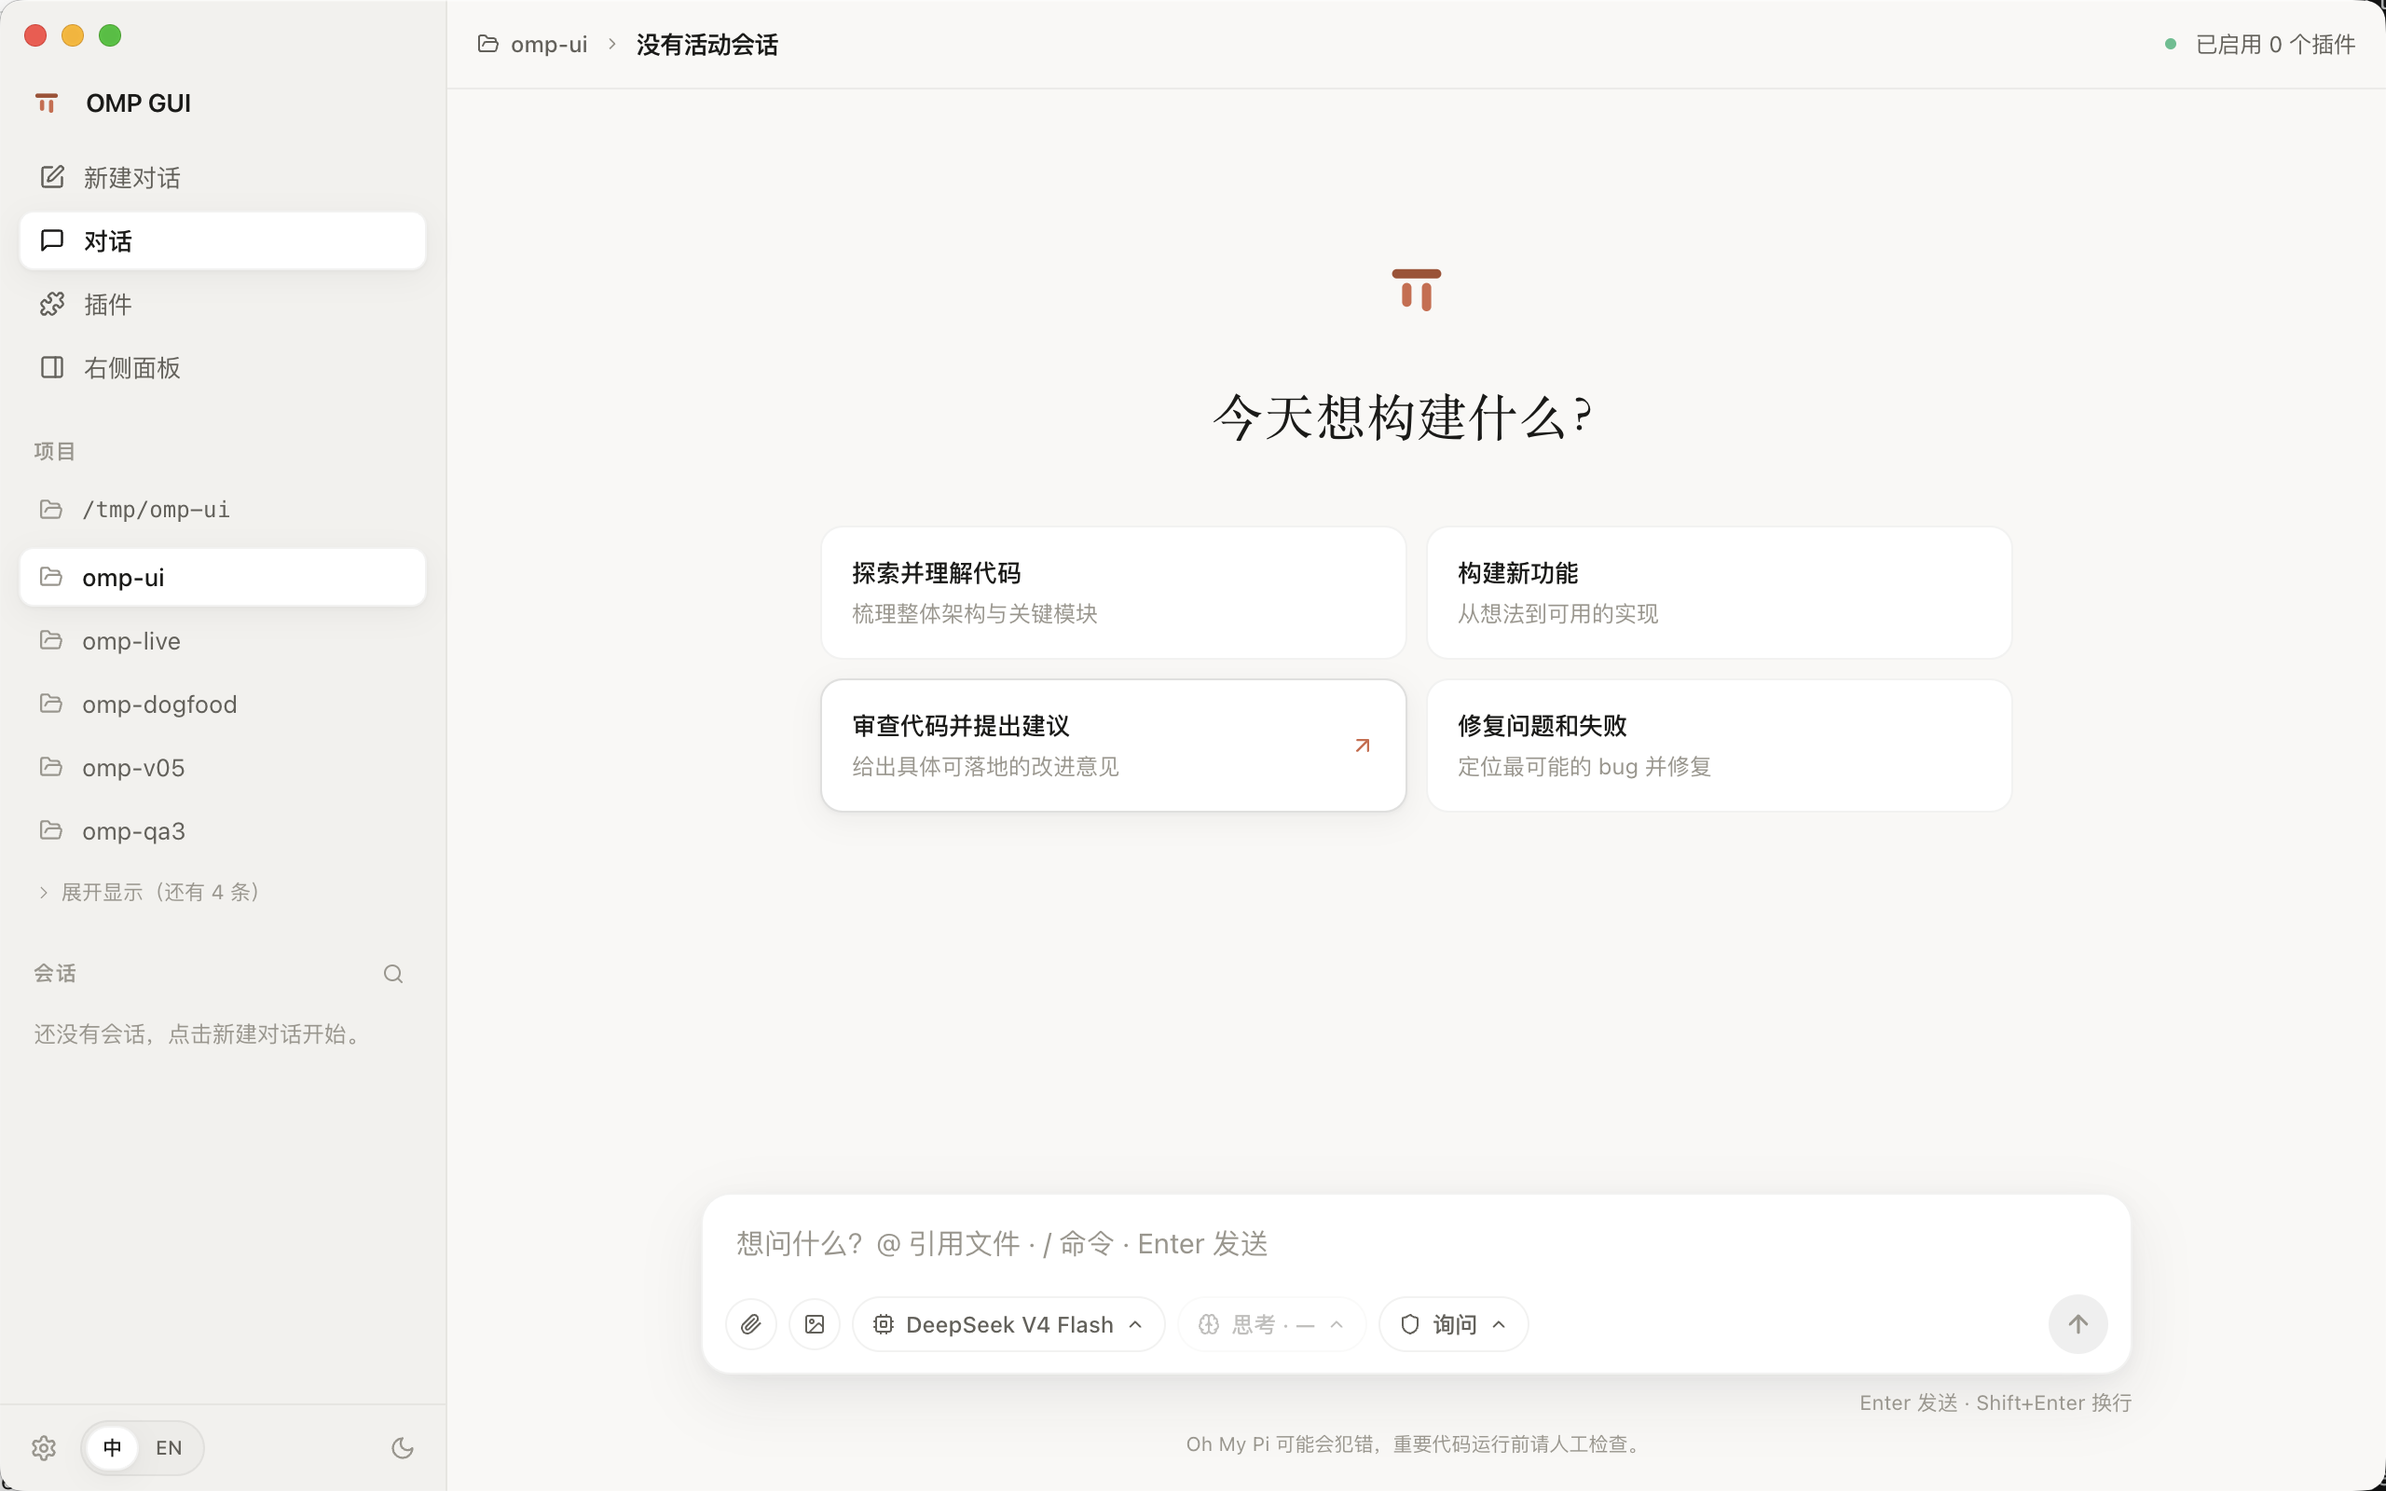
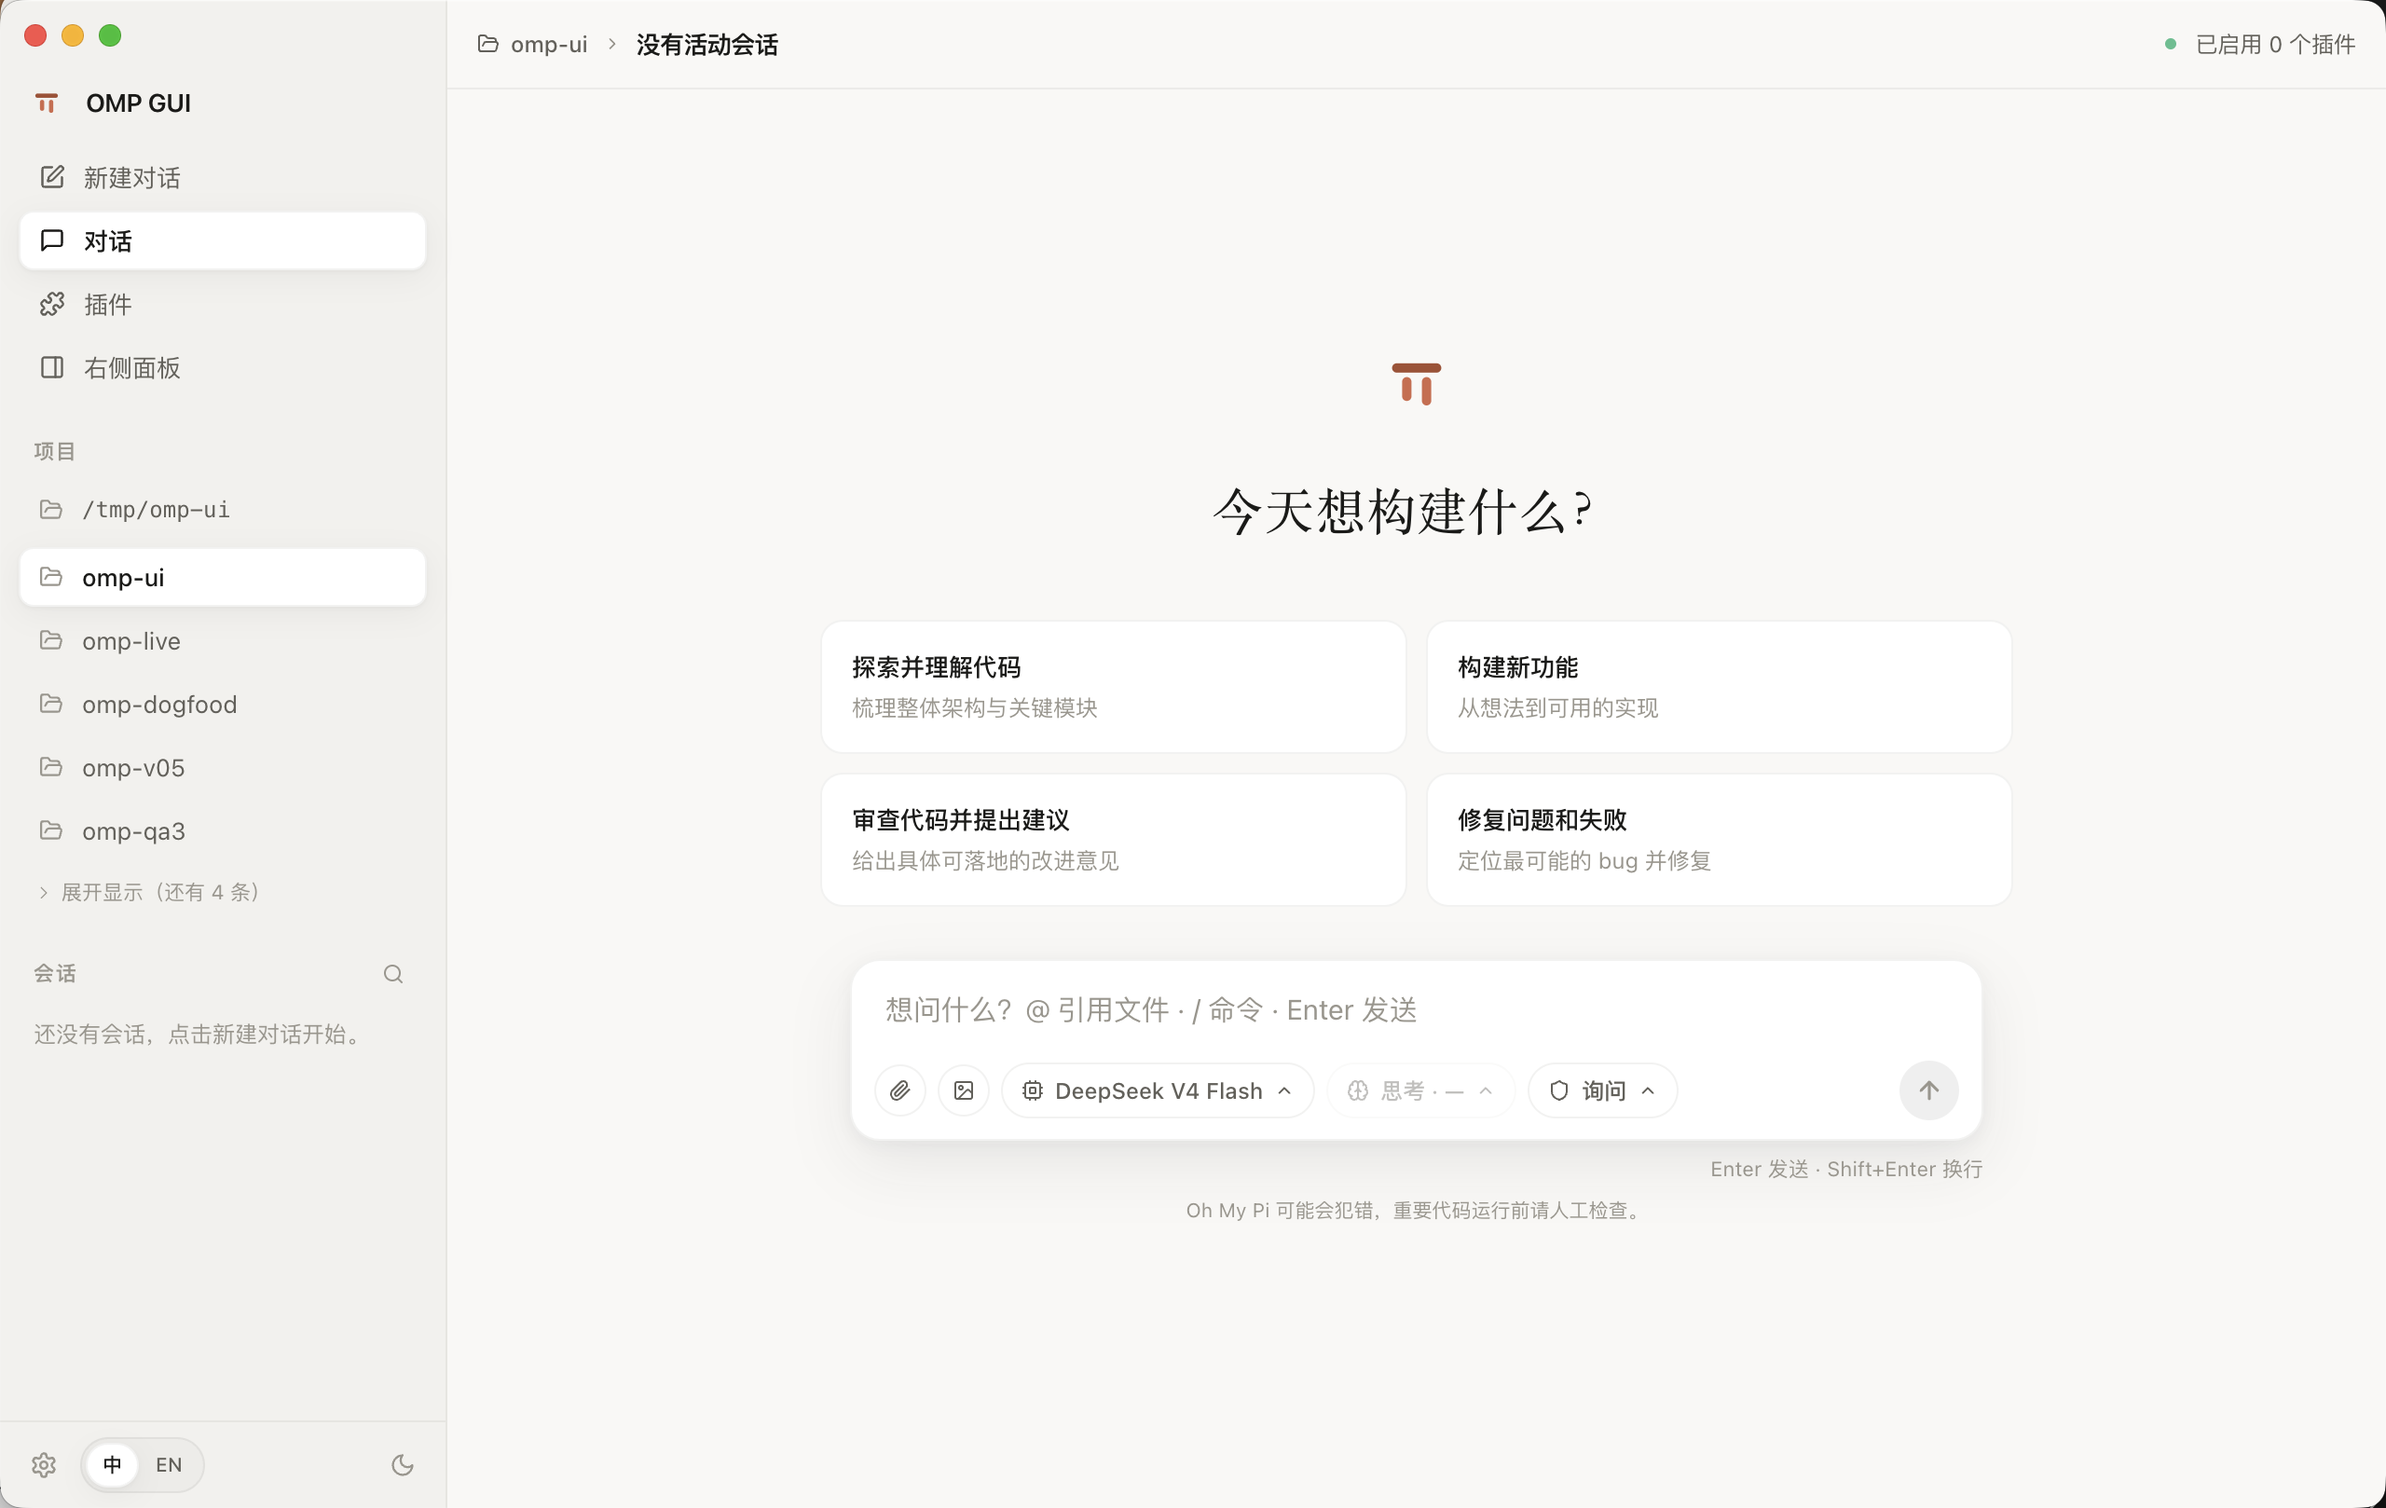
feat: fuse hero and composer into one centered block
- Suggestion cards now prefill the composer with a completable starter
  (我要做一个新功能：…) instead of firing a canned prompt — no session
  is created until you hit send
- Hero (mark, serif title, cards, composer) renders as a single
  vertically centered group; the empty band between cards and composer
  is gone

diff --git a/src/renderer/components/ChatPanel.tsx b/src/renderer/components/ChatPanel.tsx
@@ -266,10 +266,10 @@ export default function ChatPanel() {
       <div className="relative min-h-0 flex-1">
         <div ref={scrollRef} onScroll={handleTranscriptScroll} className="relative h-full overflow-y-auto">
         {showHero ? (
-          // my-auto instead of justify-center: with justify-center a hero
-          // taller than the viewport gets its top clipped above the fold.
-          <div className="flex h-full flex-col items-center px-8 pb-[14vh]">
-            <div className="my-auto flex w-full max-w-[640px] flex-col items-center">
+          // Hero and composer form ONE centered block — cards prefill the
+          // composer sitting right below them, Codex-style.
+          <div className="flex h-full flex-col items-center px-8">
+            <div className="my-auto flex w-full max-w-[640px] flex-col items-center py-6">
               <div className="rise" style={{ animationDelay: '0ms' }}>
                 <Logo size={48} />
               </div>
@@ -283,7 +283,7 @@ export default function ChatPanel() {
                 {SUGGESTIONS.map((s, i) => (
                   <button
                     key={s.labelKey}
-                    onClick={() => handleSend(t(s.promptKey))}
+                    onClick={() => useAppStore.getState().setComposerPrefill(t(s.promptKey))}
                     disabled={cliAvailable === false}
                     style={{ animationDelay: `${120 + i * 70}ms` }}
                     className="rise group flex items-center justify-between gap-3 rounded-[12px] border border-line bg-ink-850 px-4 py-3.5 text-left transition-all duration-150 ease-standard hover:border-ink-600 hover:shadow-card disabled:cursor-not-allowed disabled:opacity-40"
@@ -298,10 +298,31 @@ export default function ChatPanel() {
                     </span>
                     <ArrowUpRight
                       size={14}
-                      className="shrink-0 text-cream-faint opacity-0 transition-all duration-150 group-hover:translate-x-0 group-hover:text-accent group-hover:opacity-100 -translate-x-1"
+                      className="shrink-0 -translate-x-1 text-cream-faint opacity-0 transition-all duration-150 group-hover:translate-x-0 group-hover:text-accent group-hover:opacity-100"
                     />
                   </button>
                 ))}
+              </div>
+              <div className="rise mt-5 w-full" style={{ animationDelay: '420ms' }}>
+                {!currentProject && (
+                  <div className="mb-2 flex justify-center">
+                    <button
+                      onClick={handleSelectProject}
+                      className="flex items-center gap-2 rounded-full border border-line bg-ink-850 px-3.5 py-1.5 text-xs text-cream-dim shadow-card transition-all duration-200 ease-standard hover:-translate-y-px hover:border-line-strong hover:text-cream"
+                    >
+                      <FolderOpen size={12} />
+                      {t('chat.selectProject')}
+                    </button>
+                  </div>
+                )}
+                <Composer
+                  onSend={handleSend}
+                  onStop={handleStop}
+                  busy={isBusy}
+                  disabled={cliAvailable === false}
+                  commands={slashCommands}
+                  onCompact={currentSessionId ? handleCompact : undefined}
+                />
               </div>
             </div>
           </div>
@@ -330,7 +351,7 @@ export default function ChatPanel() {
         )}
       </div>
 
-      {!currentProject && (
+      {!currentProject && !showHero && (
         <div className="flex justify-center pb-1">
           <button
             onClick={handleSelectProject}
@@ -342,14 +363,16 @@ export default function ChatPanel() {
         </div>
       )}
 
-      <Composer
-        onSend={handleSend}
-        onStop={handleStop}
-        busy={isBusy}
-        disabled={cliAvailable === false}
-        commands={slashCommands}
-        onCompact={currentSessionId ? handleCompact : undefined}
-      />
+      {!showHero && (
+        <Composer
+          onSend={handleSend}
+          onStop={handleStop}
+          busy={isBusy}
+          disabled={cliAvailable === false}
+          commands={slashCommands}
+          onCompact={currentSessionId ? handleCompact : undefined}
+        />
+      )}
 
       {pendingUi && currentSessionId && (
         <ExtensionUiDialog sessionId={currentSessionId} request={pendingUi} />

diff --git a/src/renderer/i18n.ts b/src/renderer/i18n.ts
@@ -61,13 +61,13 @@ const en = {
   'chat.suggest.explore.prompt': 'Explore this project and explain its overall architecture and key modules to me.',
   'chat.suggest.build': 'Build a new feature',
   'chat.suggest.build.desc': 'From idea to a working implementation',
-  'chat.suggest.build.prompt': 'Help me design and implement a new feature for this project. Ask me what I want to build first.',
+  'chat.suggest.build.prompt': 'I want to build a new feature: ',
   'chat.suggest.review': 'Review code, suggest changes',
   'chat.suggest.review.desc': 'Concrete, actionable improvement ideas',
   'chat.suggest.review.prompt': 'Review the code in this project and suggest concrete improvements.',
   'chat.suggest.fix': 'Fix bugs and failures',
   'chat.suggest.fix.desc': 'Hunt down likely bugs and patch them',
-  'chat.suggest.fix.prompt': 'Find the most likely bugs in this project and propose fixes.',
+  'chat.suggest.fix.prompt': 'Find and fix: ',
 
   // Composer
   'composer.placeholder': 'Ask anything — @ files, / commands, Enter to send',
@@ -374,13 +374,13 @@ const zh: Record<I18nKey, string> = {
   'chat.suggest.explore.prompt': '通读这个项目，向我解释它的整体架构和关键模块。',
   'chat.suggest.build': '构建新功能',
   'chat.suggest.build.desc': '从想法到可用的实现',
-  'chat.suggest.build.prompt': '帮我为这个项目设计并实现一个新功能，先问我想做什么。',
+  'chat.suggest.build.prompt': '我要做一个新功能：',
   'chat.suggest.review': '审查代码并提出建议',
   'chat.suggest.review.desc': '给出具体可落地的改进意见',
   'chat.suggest.review.prompt': '审查这个项目的代码，提出具体的改进建议。',
   'chat.suggest.fix': '修复问题和失败',
   'chat.suggest.fix.desc': '定位最可能的 bug 并修复',
-  'chat.suggest.fix.prompt': '找出这个项目里最可能出问题的地方，并给出修复方案。',
+  'chat.suggest.fix.prompt': '定位并修复：',
 
   'composer.placeholder': '想问什么？@ 引用文件 · / 命令 · Enter 发送',
   'composer.placeholderDisabled': '安装 omp/pi CLI 后开始对话…',
